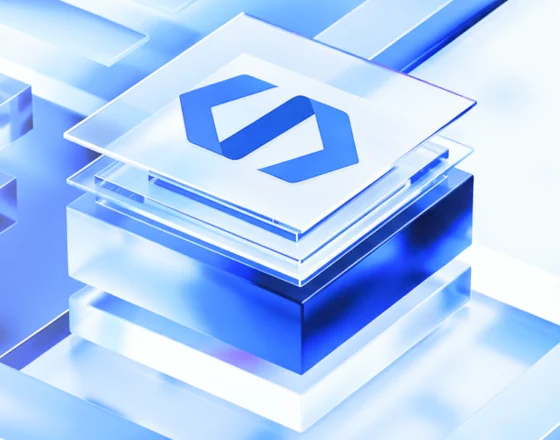
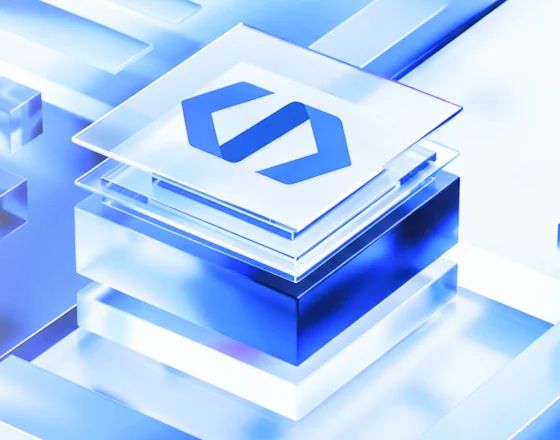
fix(event): 히어로 이미지 교체 · 글자 보호막을 그래픽 위로
새 이미지는 이전보다 밝아서, 막이 그래픽 아래에 있으면 글자 구간(x 550~770)에서
흰 글자 대비가 무너진다. 막을 그래픽 위로 올리고 76% 지점에서 0이 되게 해
왼쪽만 누르고 오른쪽 그래픽은 그대로 둔다.

측정(1440, 흰 글자 기준): 제목 끝 6.68:1 · 설명 끝 7.40:1 · 메타 11.23:1 (AA 4.5:1)

- public/event-hero.webp 118KB · event-hero-m.webp 43KB (원본 PNG 806KB)

diff --git a/app/event/event.css b/app/event/event.css
@@ -297,22 +297,24 @@
    lib/events.ts 의 cover 가 있을 때만 붙는다. 없으면 파란 그라데이션 그대로.
 
    지금 쓰는 그래픽은 왼쪽이 투명한 알파 페이드라, 그라데이션을 덮지 않고 그 위에 얹는다.
-   레이어 순서(위 → 아래): 그래픽 · 글자 보호용 막 · 브랜드 그라데이션.
-   막을 그래픽 아래에 두는 이유는, 글자가 놓이는 왼쪽은 그래픽이 비어 있어서
-   막이 그대로 비치고 그래픽이 진한 오른쪽은 손대지 않기 때문이다.
+   레이어 순서(위 → 아래): 글자 보호용 막 · 그래픽 · 브랜드 그라데이션.
+   막은 왼쪽에서만 진하고 76% 지점에서 0이 된다 — 글자가 놓이는 왼쪽만 누르고
+   그래픽이 살아야 하는 오른쪽은 건드리지 않는다.
+   ⚠ 막을 그래픽 아래에 두면 안 된다. 그러면 그래픽이 불투명한 구간에서 막이 가려져,
+      밝은 이미지가 들어왔을 때 흰 글자의 대비가 그대로 무너진다(2026-09-29 교체본이 그랬다).
 
    이미지 크기: 데스크톱 1440×460(현재 1배), 모바일 560×440. */
 .ev-hero--img{
   /* 투명한 부분 뒤를 받친다 — 없으면 흰 바탕이 비친다 */
   background-color:#1B3B8F;
   background-image:
+    linear-gradient(90deg,rgba(6,16,48,.58) 0%,rgba(6,16,48,.42) 34%,rgba(6,16,48,.18) 58%,rgba(6,16,48,0) 76%),
     var(--ev-hero-img),
-    linear-gradient(90deg,rgba(8,18,52,.58) 0%,rgba(8,18,52,.36) 44%,rgba(8,18,52,0) 74%),
     linear-gradient(135deg,#1B3B8F 0%,var(--blue) 62%,var(--blue-2) 100%);
-  /* 세로를 자르지 않는다. cover 로 두면 1440 보다 넓은 화면에서 로고 윗부분이 잘린다.
+  /* 세로를 자르지 않는다. cover 로 두면 1440 보다 넓은 화면에서 세로가 잘려 로고 윗부분이 날아간다.
      높이에 맞춰 오른쪽에 붙이면 1440 에서 원본 그대로, 더 넓으면 왼쪽에 그라데이션이 남는다 */
-  background-size:auto 100%,cover,cover;
-  background-position:right center,center,center;
+  background-size:cover,auto 100%,cover;
+  background-position:center,right center,center;
   background-repeat:no-repeat
 }
 /* 장식 원은 그래픽과 겹치면 얼룩처럼 보인다 */
